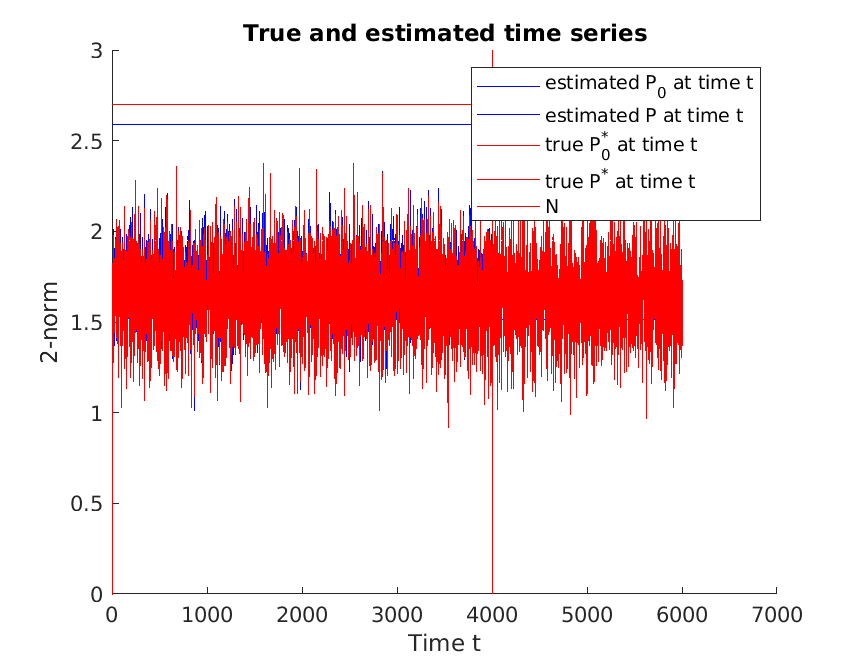
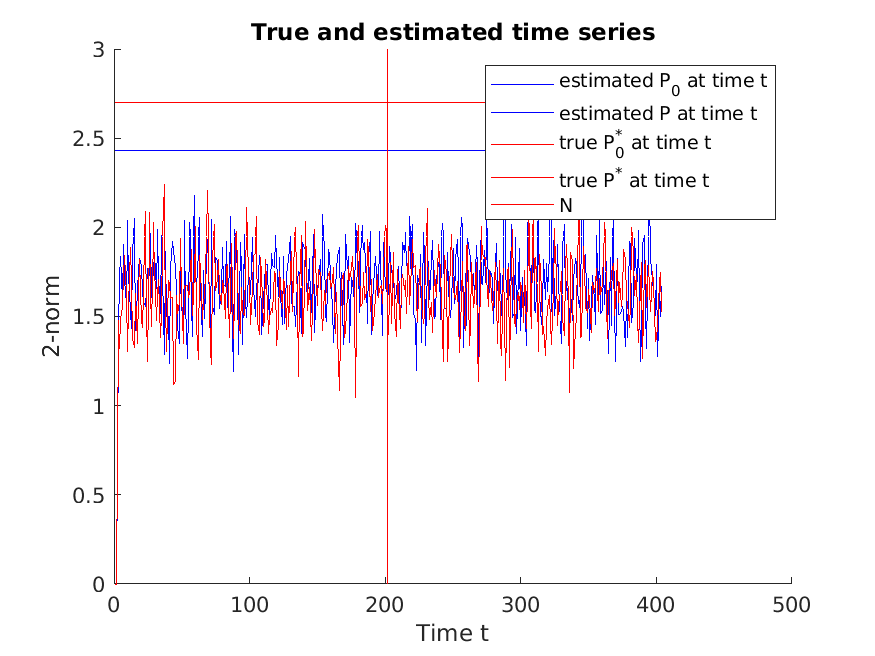
subgradient to prox

diff --git a/matlab_scripts/recovery_core/plot_true_pred_series.m b/matlab_scripts/recovery_core/plot_true_pred_series.m
@@ -1,34 +1,33 @@
 function [] = plot_true_pred_series(L, N_true, d, theta_true, theta0_true, theta, theta0)
     % For plotting.
-    N = N_true+round(N_true/2);
+    N = N_true+round(N_true);
     norm_probability_true = zeros(1,N);
     norm_probability_pred = zeros(1,N);
     % Initialiazing the time horizon.
     time_horizon = zeros(N,L);
     probabilities_true = zeros(N,L);
     probabilities_pred = zeros(N,L);
+    time_horizon_pred = zeros(N,L);
     for s = (1:d)
         x = normrnd(0, 1, 1, L);
         x(x>=0) = 1;
         x(x<0) = 0;
         for l = 1:L
             time_horizon(s,:) = x;
+            time_horizon_pred(s,:) = x;
         end
     end
     % Generate time series.
     for s = (d+1):(N)
         X = time_horizon((s-d):(s-1),:);
+        X_pred = time_horizon_pred((s-d):(s-1),:);
         X = reshape(X.',1,[]);
-        if s <= (N_true+1)
-            X_hat = X;
-        else
-            X_hat = probabilities_pred((s-d):(s-1),:);
-            X_hat = reshape(X_hat.',1,[]);
-        end
+        X_pred = reshape(X_pred.',1,[]);
         for l = 1:L
             p_true = sigmoid(theta0_true(l) + dot(X, theta_true(l,:)));
-            p_pred = sigmoid(theta0(l) + dot(X_hat, theta(l,:)));
+            p_pred = sigmoid(theta0(l) + dot(X_pred, theta(l,:)));
             time_horizon(s,l) = Bernouilli_draw(p_true);
+            time_horizon_pred(s,l) = Bernouilli_draw(p_pred);
             probabilities_true(s,l) = p_true;
             probabilities_pred(s,l) = p_pred;
             % Calculating the 2-norms.

diff --git a/matlab_scripts/recovery_Mirror_prox/Parameter_recovery_mirror_prox_fixed.m b/matlab_scripts/recovery_Mirror_prox/Parameter_recovery_mirror_prox_fixed.m
@@ -1,4 +1,4 @@
-function [] = Parameter_recovery_mirror_prox_bisection()
+function [] = Parameter_recovery_mirror_prox_fixed()
     % Set the random seed.
     rng(0);
     % Dimensions of 2-D space grid.
